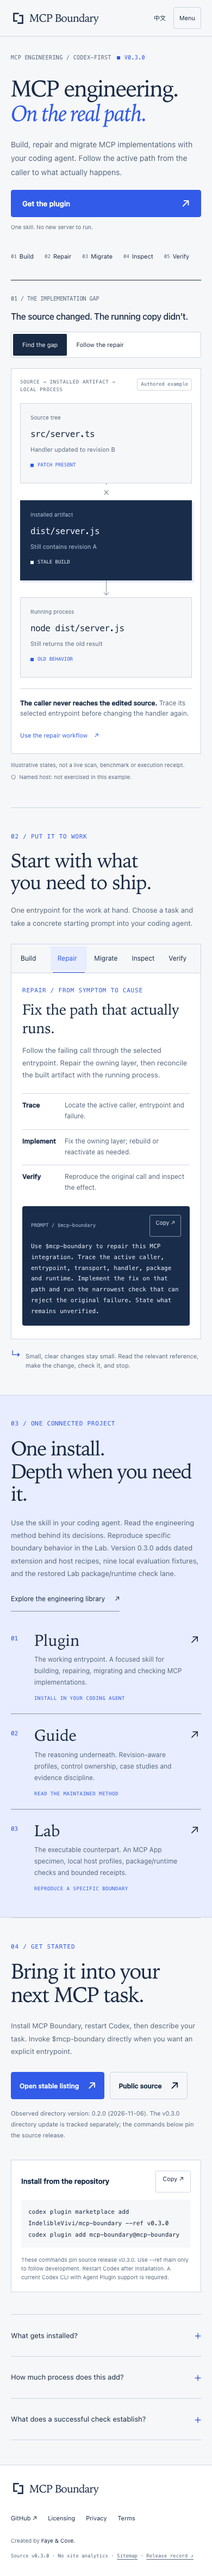
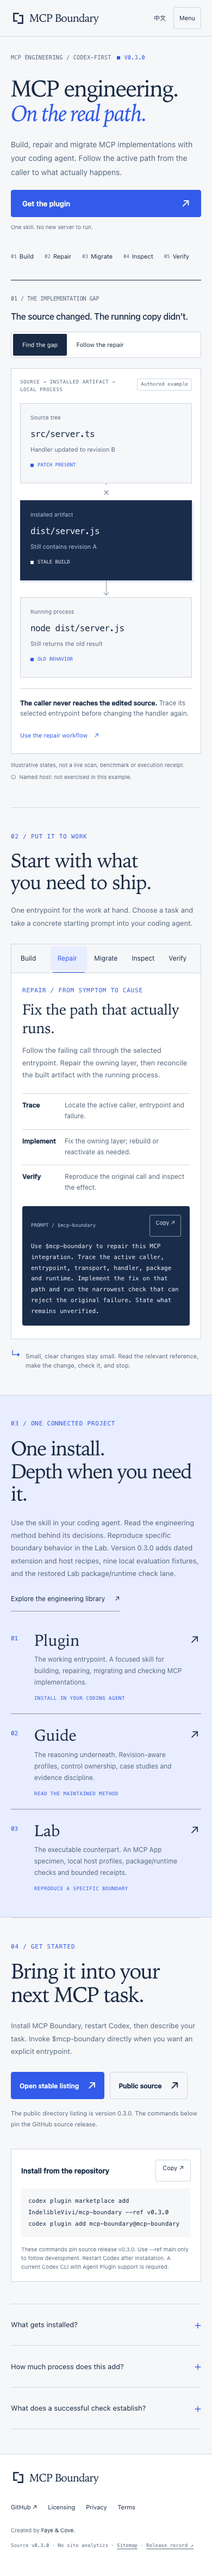
record published 0.3.0 directory release

diff --git a/mcp-boundary-demo.html b/mcp-boundary-demo.html
@@ -56,7 +56,7 @@ html:not(.js) .menu-button{display:none}html:not(.js) .nav{display:flex}html:not
  <div class="kicker blue">VERIFY / ASK AT THE RIGHT BOUNDARY</div><h3>Test the claim where it can be observed.</h3><p>Use the exact artifact and observer needed for the claim. A local rendering test has value; a different host still needs its own observation.</p><div class="workflow-steps"><div><strong>Define</strong><span>Define the claim, exact artifact and qualifying observer.</span></div><div><strong>Exercise</strong><span>Prepare only the authorized check that can reject it.</span></div><div><strong>Record</strong><span>Record the outcome and its remaining limits.</span></div></div>
  <div class="prompt"><div class="prompt-top"><span class="mono">PROMPT / $mcp-boundary</span><button class="js-only" data-copy="prompt-verify" aria-label="Copy prompt">Copy ↗</button></div><pre id="prompt-verify">Use $mcp-boundary to verify this MCP behavior. Define the claim, exact artifact, active runtime and qualifying observer. Run authorized checks at the relevant boundary, distinguishing source, process, artifact and named-host observations. Do not promote an unobserved host result into success or failure.</pre></div></section></div></div><p class="workflow-note"><span class="symbol" aria-hidden="true">↳</span>Small, clear changes stay small. Read the relevant reference, make the change, check it, and stop.</p></section>
  <section class="ecosystem" id="project" aria-labelledby="eco-heading"><div class="wrap eco-grid"><div class="eco-intro"><div class="kicker blue">03 / ONE CONNECTED PROJECT</div><h2 id="eco-heading">One install.<br>Depth when you need it.</h2><p>Use the skill in your coding agent. Read the engineering method behind its decisions. Reproduce specific boundary behavior in the Lab. Version 0.3.0 adds dated extension and host recipes, nine local evaluation fixtures, and the restored Lab package/runtime check lane.</p><a class="text-link" href="https://indeliblevivi.github.io/mcp-boundary/library.html">Explore the engineering library <span aria-hidden="true">↗</span></a></div><div><a class="surface" href="#install"><span class="surface-index">01</span><div><h3>Plugin</h3><p>The working entrypoint. A focused skill for building, repairing, migrating and checking MCP implementations.</p><div class="surface-meta">INSTALL IN YOUR CODING AGENT</div></div><span class="surface-arrow" aria-hidden="true">↗</span></a><a class="surface" href="https://indeliblevivi.github.io/mcp-boundary/library.html#guide"><span class="surface-index">02</span><div><h3>Guide</h3><p>The reasoning underneath. Revision-aware profiles, control ownership, case studies and evidence discipline.</p><div class="surface-meta">READ THE MAINTAINED METHOD</div></div><span class="surface-arrow" aria-hidden="true">↗</span></a><a class="surface" href="https://indeliblevivi.github.io/mcp-boundary/library.html#lab"><span class="surface-index">03</span><div><h3>Lab</h3><p>The executable counterpart. An MCP App specimen, local host profiles, package/runtime checks and bounded receipts.</p><div class="surface-meta">REPRODUCE A SPECIFIC BOUNDARY</div></div><span class="surface-arrow" aria-hidden="true">↗</span></a></div></div></section>
- <section class="section wrap" id="install" aria-labelledby="install-heading"><div class="install-grid"><div class="install-copy"><div class="kicker blue">04 / GET STARTED</div><h2 id="install-heading">Bring it into your<br>next MCP task.</h2><p>Install MCP Boundary, restart Codex, then describe your task. Invoke $mcp-boundary directly when you want an explicit entrypoint.</p><div class="install-actions"><a class="cta" href="https://chatgpt.com/plugins/plugins_6aa72e81844081918770991deb1dbfc8">Open stable listing <span class="arr" aria-hidden="true">↗</span></a><a class="cta secondary" href="https://github.com/IndelibleVivi/mcp-boundary">Public source <span class="arr" aria-hidden="true">↗</span></a></div><p class="install-meta">Observed directory version: 0.2.0 (2026-11-06). The v0.3.0 directory update is tracked separately; the commands below pin the source release.</p></div>
+ <section class="section wrap" id="install" aria-labelledby="install-heading"><div class="install-grid"><div class="install-copy"><div class="kicker blue">04 / GET STARTED</div><h2 id="install-heading">Bring it into your<br>next MCP task.</h2><p>Install MCP Boundary, restart Codex, then describe your task. Invoke $mcp-boundary directly when you want an explicit entrypoint.</p><div class="install-actions"><a class="cta" href="https://chatgpt.com/plugins/plugins_6aa72e81844081918770991deb1dbfc8">Open stable listing <span class="arr" aria-hidden="true">↗</span></a><a class="cta secondary" href="https://github.com/IndelibleVivi/mcp-boundary">Public source <span class="arr" aria-hidden="true">↗</span></a></div><p class="install-meta">The public directory listing is version 0.3.0. The commands below pin the GitHub source release.</p></div>
  <div class="source-install"><div class="source-install-header"><h3>Install from the repository</h3><button class="copy-small js-only" data-copy="install-command">Copy ↗</button></div><pre id="install-command">codex plugin marketplace add IndelibleVivi/mcp-boundary --ref v0.3.0
 codex plugin add mcp-boundary@mcp-boundary</pre><p>These commands pin source release v0.3.0. Use --ref main only to follow development. Restart Codex after installation. A current Codex CLI with Agent Plugin support is required.</p></div></div><div class="details-list"><details><summary>What gets installed?</summary><p>One pure skill with its bundled references and assets. It starts no server, adds no app connector or authentication flow, and sends no analytics or telemetry. The Guide and executable Lab remain repository resources.</p></details><details><summary>How much process does this add?</summary><p>Only the depth the task needs. A small wording change or local helper does not need an elaborate audit. The skill has an explicit stop rule for small, clear MCP tasks.</p></details><details><summary>What does a successful check establish?</summary><p>The behavior observed at that boundary. Source, local process, artifact, activated runtime and named-host observations remain distinct. The public library links to the method and runnable checks; this website does not execute them.</p></details></div></section></main><script type="application/json" id="study-data">{"before": {"files": ["src/server.ts", "dist/server.js", "node dist/server.js"], "details": ["Handler updated to revision B", "Still contains revision A", "Still returns the old result"], "states": ["PATCH PRESENT", "STALE BUILD", "OLD BEHAVIOR"], "summary": "\u003cstrong>The caller never reaches the edited source.\u003c/strong> Trace its selected entrypoint before changing the handler again."}, "after": {"files": ["src/server.ts", "dist/server.js", "node dist/server.js"], "details": ["Handler updated to revision B", "Rebuilt and checked as B", "Restarted; revision B read back"], "states": ["PATCH PRESENT", "ARTIFACT ALIGNED", "LOCAL RESULT OBSERVED"], "summary": "\u003cstrong>Rebuild, select, restart, then exercise the effect.\u003c/strong> In this example, the local process now runs the intended artifact and returns the new result."}}</script><footer><div class="wrap"><div class="foot-top"><a class="brand" href="./mcp-boundary-demo.html"><svg viewBox="0 0 64 64" data-mark aria-hidden="true"><path d="M35 11H13V44H28" fill="none" stroke="currentColor" stroke-width="6"/><path d="M29 53H51V20H36" fill="none" stroke="#315BE8" stroke-width="6"/></svg><span>MCP Boundary</span></a><nav class="foot-links" aria-label="Footer"><a href="https://github.com/IndelibleVivi/mcp-boundary">GitHub ↗</a><a href="https://github.com/IndelibleVivi/mcp-boundary/blob/main/LICENSING.md">Licensing</a><a href="https://github.com/IndelibleVivi/mcp-boundary/blob/main/PRIVACY.md">Privacy</a><a href="https://github.com/IndelibleVivi/mcp-boundary/blob/main/TERMS.md">Terms</a></nav></div><div class="foot-bottom"><p class="foot-credit">Created by <span>Faye &amp; Cove.</span></p><p class="foot-state">Source v0.3.0 · No site analytics · <a href="https://github.com/IndelibleVivi/mcp-boundary/blob/main/docs/current-state.md">Release record ↗</a></p></div></div></footer>
  <dialog id="copy-dialog" aria-labelledby="copy-title"><div class="dialog-head"><h2 id="copy-title">Copy the text</h2><button id="close-dialog" aria-label="Close">×</button></div><p>Clipboard access is unavailable here. Select the text and use your usual copy command.</p><textarea id="copy-fallback" readonly aria-label="Text to copy"></textarea></dialog><div class="toast" id="toast" role="status" aria-live="polite"></div><noscript><p class="notice">All documents and installation instructions are available without JavaScript. Interactive examples and copy helpers require JavaScript.</p></noscript>

diff --git a/site/zh/index.html b/site/zh/index.html
@@ -26,7 +26,7 @@
  <div class="kicker blue">验证 / 到能观察它的地方去</div><h3>在对应的边界，验证具体结论。</h3><p>选择与结论对应的产物和观察者。本地渲染测试有它的价值，另一个宿主仍需要独立的实际观察。</p><div class="workflow-steps"><div><strong>定义</strong><span>写清待验证结论、具体产物与观察者。</span></div><div><strong>执行</strong><span>准备有授权、且能够否定该结论的检查。</span></div><div><strong>记录</strong><span>记录结果，同时保留它的适用范围。</span></div></div>
  <div class="prompt"><div class="prompt-top"><span class="mono">起始提示词 / $mcp-boundary</span><button class="js-only" data-copy="prompt-verify" aria-label="复制提示词">复制 ↗</button></div><pre id="prompt-verify">使用 $mcp-boundary 验证这个 MCP 行为。明确待验证结论、具体产物、实际运行进程与合格观察者，在对应边界运行获授权的检查，区分源码、进程、产物和具体宿主上的观察。没有观察到的宿主结果，不能判为成功或失败。</pre></div></section></div></div><p class="workflow-note"><span class="symbol" aria-hidden="true">↳</span>小而明确的改动就保持小：读相关参考、完成修改、运行检查，到此为止。</p></section>
  <section class="ecosystem" id="project" aria-labelledby="eco-heading"><div class="wrap eco-grid"><div class="eco-intro"><div class="kicker blue">03 / 同一个项目</div><h2 id="eco-heading">安装一个技能。<br>需要时，继续深入。</h2><p>在编码智能体里使用技能，读懂决策背后的工程方法，再去 Lab 复现具体边界上的行为。 v0.3.0 增加按日期标注的扩展与宿主 recipes、九个本地评估 fixture，并恢复 Lab 的打包与运行验证路线。</p><a class="text-link" href="./library.html">进入工程资料库 <span aria-hidden="true">↗</span></a></div><div><a class="surface" href="#install"><span class="surface-index">01</span><div><h3>Plugin</h3><p>实际工作的入口。一个专注于 MCP 构建、修复、迁移与检查的技能。</p><div class="surface-meta">安装到编码智能体</div></div><span class="surface-arrow" aria-hidden="true">↗</span></a><a class="surface" href="./library.html#guide"><span class="surface-index">02</span><div><h3>Guide</h3><p>决策背后的方法。按版本组织的协议参考、控制归属、案例与证据规则。</p><div class="surface-meta">阅读维护中的工程方法</div></div><span class="surface-arrow" aria-hidden="true">↗</span></a><a class="surface" href="./library.html#lab"><span class="surface-index">03</span><div><h3>Lab</h3><p>可运行的对应物。MCP App 标本、本地宿主配置、产物与进程检查，以及限定结论范围的回执。</p><div class="surface-meta">复现具体边界上的行为</div></div><span class="surface-arrow" aria-hidden="true">↗</span></a></div></div></section>
- <section class="section wrap" id="install" aria-labelledby="install-heading"><div class="install-grid"><div class="install-copy"><div class="kicker blue">04 / 开始使用</div><h2 id="install-heading">把它带进你的<br>下一次 MCP 工作。</h2><p>安装 MCP Boundary，重启 Codex，再描述这次要做的事。需要明确调用时，直接写上 $mcp-boundary。</p><div class="install-actions"><a class="cta" href="https://chatgpt.com/plugins/plugins_6aa72e81844081918770991deb1dbfc8">打开稳定版目录页面 <span class="arr" aria-hidden="true">↗</span></a><a class="cta secondary" href="https://github.com/IndelibleVivi/mcp-boundary">查看公开源码 <span class="arr" aria-hidden="true">↗</span></a></div><p class="install-meta">目录最近观察到的版本为 0.2.0（2026-11-06）。v0.3.0 的目录更新单独记录；下方命令固定安装源码发布版。</p></div>
+ <section class="section wrap" id="install" aria-labelledby="install-heading"><div class="install-grid"><div class="install-copy"><div class="kicker blue">04 / 开始使用</div><h2 id="install-heading">把它带进你的<br>下一次 MCP 工作。</h2><p>安装 MCP Boundary，重启 Codex，再描述这次要做的事。需要明确调用时，直接写上 $mcp-boundary。</p><div class="install-actions"><a class="cta" href="https://chatgpt.com/plugins/plugins_6aa72e81844081918770991deb1dbfc8">打开稳定版目录页面 <span class="arr" aria-hidden="true">↗</span></a><a class="cta secondary" href="https://github.com/IndelibleVivi/mcp-boundary">查看公开源码 <span class="arr" aria-hidden="true">↗</span></a></div><p class="install-meta">公开插件目录的 0.3.0 已上线。下方命令固定安装 GitHub 源码发布版。</p></div>
  <div class="source-install"><div class="source-install-header"><h3>从仓库安装</h3><button class="copy-small js-only" data-copy="install-command">复制 ↗</button></div><pre id="install-command">codex plugin marketplace add IndelibleVivi/mcp-boundary --ref v0.3.0
 codex plugin add mcp-boundary@mcp-boundary</pre><p>这些命令固定安装源码发布版 v0.3.0。只有需要跟随开发时才使用 --ref main。安装后重启 Codex；需要支持 Agent Plugin 的当前 Codex CLI。</p></div></div><div class="details-list"><details><summary>到底会安装什么？</summary><p>一个纯技能包，包含所需参考与资源。不启动服务器，不新增 App connector 或认证流程，也不发送分析数据或遥测。Guide 与可执行 Lab 留在仓库里，不随插件运行。</p></details><details><summary>会不会把小改动变成大审计？</summary><p>工作深度应当匹配任务。小的措辞修改或本地辅助能力不需要一整套复杂审计；技能明确要求在小而清楚的 MCP 任务上及时停止。</p></details><details><summary>一项检查通过，意味着什么？</summary><p>意味着在那次检查对应的边界上观察到了预期行为。源码、本地进程、构建产物、激活后的运行时和具体宿主上的观察仍各自成立。资料库提供方法与可运行检查的入口，这个官网本身不执行它们。</p></details></div></section></main><script type="application/json" id="study-data">{"before": {"files": ["src/server.ts", "dist/server.js", "node dist/server.js"], "details": ["处理逻辑已更新为版本 B", "仍然包含版本 A", "仍然返回修改前的结果"], "states": ["修改已存在", "产物未更新", "旧行为仍在"], "summary": "\u003cstrong>调用方根本没有进入改过的源码。\u003c/strong> 先追踪它实际选择的入口，再决定是否继续修改处理逻辑。"}, "after": {"files": ["src/server.ts", "dist/server.js", "node dist/server.js"], "details": ["处理逻辑已更新为版本 B", "重新构建并确认是版本 B", "重启后回读到版本 B"], "states": ["修改已存在", "产物已对齐", "观察到本地新结果"], "summary": "\u003cstrong>重新构建、选择产物、重启，再实际调用。\u003c/strong> 在这个示例里，本地进程已运行预期的那一份，并返回新的结果。"}}</script><footer><div class="wrap"><div class="foot-top"><a class="brand" href="./"><svg viewBox="0 0 64 64" data-mark aria-hidden="true"><path d="M35 11H13V44H28" fill="none" stroke="currentColor" stroke-width="6"/><path d="M29 53H51V20H36" fill="none" stroke="#315BE8" stroke-width="6"/></svg><span>MCP Boundary</span></a><nav class="foot-links" aria-label="Footer"><a href="https://github.com/IndelibleVivi/mcp-boundary">GitHub ↗</a><a href="https://github.com/IndelibleVivi/mcp-boundary/blob/main/LICENSING.md">许可</a><a href="https://github.com/IndelibleVivi/mcp-boundary/blob/main/PRIVACY.md">隐私</a><a href="https://github.com/IndelibleVivi/mcp-boundary/blob/main/TERMS.md">使用条款</a></nav></div><div class="foot-bottom"><p class="foot-credit">由 <span>Faye &amp; Cove</span> 共同创作。</p><p class="foot-state">源码 v0.3.0 · 无站点分析追踪 · <a href="../sitemap.xml">站点地图</a> · <a href="https://github.com/IndelibleVivi/mcp-boundary/blob/main/docs/current-state.md">版本记录 ↗</a></p></div></div></footer>
  <dialog id="copy-dialog" aria-labelledby="copy-title"><div class="dialog-head"><h2 id="copy-title">手动复制</h2><button id="close-dialog" aria-label="关闭">×</button></div><p>当前环境无法访问剪贴板。选中下方文字，再使用通常的复制操作。</p><textarea id="copy-fallback" readonly aria-label="要复制的文字"></textarea></dialog><div class="toast" id="toast" role="status" aria-live="polite"></div><noscript><p class="notice">无需 JavaScript 即可阅读内容、查看文档与安装说明。交互示例和复制辅助需要 JavaScript。</p></noscript>

diff --git a/site/index.html b/site/index.html
@@ -27,7 +27,7 @@
  <div class="kicker blue">VERIFY / ASK AT THE RIGHT BOUNDARY</div><h3>Test the claim where it can be observed.</h3><p>Use the exact artifact and observer needed for the claim. A local rendering test has value; a different host still needs its own observation.</p><div class="workflow-steps"><div><strong>Define</strong><span>Define the claim, exact artifact and qualifying observer.</span></div><div><strong>Exercise</strong><span>Prepare only the authorized check that can reject it.</span></div><div><strong>Record</strong><span>Record the outcome and its remaining limits.</span></div></div>
  <div class="prompt"><div class="prompt-top"><span class="mono">PROMPT / $mcp-boundary</span><button class="js-only" data-copy="prompt-verify" aria-label="Copy prompt">Copy ↗</button></div><pre id="prompt-verify">Use $mcp-boundary to verify this MCP behavior. Define the claim, exact artifact, active runtime and qualifying observer. Run authorized checks at the relevant boundary, distinguishing source, process, artifact and named-host observations. Do not promote an unobserved host result into success or failure.</pre></div></section></div></div><p class="workflow-note"><span class="symbol" aria-hidden="true">↳</span>Small, clear changes stay small. Read the relevant reference, make the change, check it, and stop.</p></section>
  <section class="ecosystem" id="project" aria-labelledby="eco-heading"><div class="wrap eco-grid"><div class="eco-intro"><div class="kicker blue">03 / ONE CONNECTED PROJECT</div><h2 id="eco-heading">One install.<br>Depth when you need it.</h2><p>Use the skill in your coding agent. Read the engineering method behind its decisions. Reproduce specific boundary behavior in the Lab. Version 0.3.0 adds dated extension and host recipes, nine local evaluation fixtures, and the restored Lab package/runtime check lane.</p><a class="text-link" href="./library.html">Explore the engineering library <span aria-hidden="true">↗</span></a></div><div><a class="surface" href="#install"><span class="surface-index">01</span><div><h3>Plugin</h3><p>The working entrypoint. A focused skill for building, repairing, migrating and checking MCP implementations.</p><div class="surface-meta">INSTALL IN YOUR CODING AGENT</div></div><span class="surface-arrow" aria-hidden="true">↗</span></a><a class="surface" href="./library.html#guide"><span class="surface-index">02</span><div><h3>Guide</h3><p>The reasoning underneath. Revision-aware profiles, control ownership, case studies and evidence discipline.</p><div class="surface-meta">READ THE MAINTAINED METHOD</div></div><span class="surface-arrow" aria-hidden="true">↗</span></a><a class="surface" href="./library.html#lab"><span class="surface-index">03</span><div><h3>Lab</h3><p>The executable counterpart. An MCP App specimen, local host profiles, package/runtime checks and bounded receipts.</p><div class="surface-meta">REPRODUCE A SPECIFIC BOUNDARY</div></div><span class="surface-arrow" aria-hidden="true">↗</span></a></div></div></section>
- <section class="section wrap" id="install" aria-labelledby="install-heading"><div class="install-grid"><div class="install-copy"><div class="kicker blue">04 / GET STARTED</div><h2 id="install-heading">Bring it into your<br>next MCP task.</h2><p>Install MCP Boundary, restart Codex, then describe your task. Invoke $mcp-boundary directly when you want an explicit entrypoint.</p><div class="install-actions"><a class="cta" href="https://chatgpt.com/plugins/plugins_6aa72e81844081918770991deb1dbfc8">Open stable listing <span class="arr" aria-hidden="true">↗</span></a><a class="cta secondary" href="https://github.com/IndelibleVivi/mcp-boundary">Public source <span class="arr" aria-hidden="true">↗</span></a></div><p class="install-meta">Observed directory version: 0.2.0 (2026-11-06). The v0.3.0 directory update is tracked separately; the commands below pin the source release.</p></div>
+ <section class="section wrap" id="install" aria-labelledby="install-heading"><div class="install-grid"><div class="install-copy"><div class="kicker blue">04 / GET STARTED</div><h2 id="install-heading">Bring it into your<br>next MCP task.</h2><p>Install MCP Boundary, restart Codex, then describe your task. Invoke $mcp-boundary directly when you want an explicit entrypoint.</p><div class="install-actions"><a class="cta" href="https://chatgpt.com/plugins/plugins_6aa72e81844081918770991deb1dbfc8">Open stable listing <span class="arr" aria-hidden="true">↗</span></a><a class="cta secondary" href="https://github.com/IndelibleVivi/mcp-boundary">Public source <span class="arr" aria-hidden="true">↗</span></a></div><p class="install-meta">The public directory listing is version 0.3.0. The commands below pin the GitHub source release.</p></div>
  <div class="source-install"><div class="source-install-header"><h3>Install from the repository</h3><button class="copy-small js-only" data-copy="install-command">Copy ↗</button></div><pre id="install-command">codex plugin marketplace add IndelibleVivi/mcp-boundary --ref v0.3.0
 codex plugin add mcp-boundary@mcp-boundary</pre><p>These commands pin source release v0.3.0. Use --ref main only to follow development. Restart Codex after installation. A current Codex CLI with Agent Plugin support is required.</p></div></div><div class="details-list"><details><summary>What gets installed?</summary><p>One pure skill with its bundled references and assets. It starts no server, adds no app connector or authentication flow, and sends no analytics or telemetry. The Guide and executable Lab remain repository resources.</p></details><details><summary>How much process does this add?</summary><p>Only the depth the task needs. A small wording change or local helper does not need an elaborate audit. The skill has an explicit stop rule for small, clear MCP tasks.</p></details><details><summary>What does a successful check establish?</summary><p>The behavior observed at that boundary. Source, local process, artifact, activated runtime and named-host observations remain distinct. The public library links to the method and runnable checks; this website does not execute them.</p></details></div></section></main><script type="application/json" id="study-data">{"before": {"files": ["src/server.ts", "dist/server.js", "node dist/server.js"], "details": ["Handler updated to revision B", "Still contains revision A", "Still returns the old result"], "states": ["PATCH PRESENT", "STALE BUILD", "OLD BEHAVIOR"], "summary": "\u003cstrong>The caller never reaches the edited source.\u003c/strong> Trace its selected entrypoint before changing the handler again."}, "after": {"files": ["src/server.ts", "dist/server.js", "node dist/server.js"], "details": ["Handler updated to revision B", "Rebuilt and checked as B", "Restarted; revision B read back"], "states": ["PATCH PRESENT", "ARTIFACT ALIGNED", "LOCAL RESULT OBSERVED"], "summary": "\u003cstrong>Rebuild, select, restart, then exercise the effect.\u003c/strong> In this example, the local process now runs the intended artifact and returns the new result."}}</script><footer><div class="wrap"><div class="foot-top"><a class="brand" href="./"><svg viewBox="0 0 64 64" data-mark aria-hidden="true"><path d="M35 11H13V44H28" fill="none" stroke="currentColor" stroke-width="6"/><path d="M29 53H51V20H36" fill="none" stroke="#315BE8" stroke-width="6"/></svg><span>MCP Boundary</span></a><nav class="foot-links" aria-label="Footer"><a href="https://github.com/IndelibleVivi/mcp-boundary">GitHub ↗</a><a href="https://github.com/IndelibleVivi/mcp-boundary/blob/main/LICENSING.md">Licensing</a><a href="https://github.com/IndelibleVivi/mcp-boundary/blob/main/PRIVACY.md">Privacy</a><a href="https://github.com/IndelibleVivi/mcp-boundary/blob/main/TERMS.md">Terms</a></nav></div><div class="foot-bottom"><p class="foot-credit">Created by <span>Faye &amp; Cove.</span></p><p class="foot-state">Source v0.3.0 · No site analytics · <a href="./sitemap.xml">Sitemap</a> · <a href="https://github.com/IndelibleVivi/mcp-boundary/blob/main/docs/current-state.md">Release record ↗</a></p></div></div></footer>
  <dialog id="copy-dialog" aria-labelledby="copy-title"><div class="dialog-head"><h2 id="copy-title">Copy the text</h2><button id="close-dialog" aria-label="Close">×</button></div><p>Clipboard access is unavailable here. Select the text and use your usual copy command.</p><textarea id="copy-fallback" readonly aria-label="Text to copy"></textarea></dialog><div class="toast" id="toast" role="status" aria-live="polite"></div><noscript><p class="notice">All documents and installation instructions are available without JavaScript. Interactive examples and copy helpers require JavaScript.</p></noscript>

diff --git a/tests/test_release_submission.py b/tests/test_release_submission.py
@@ -70,6 +70,8 @@ class ReleaseSubmissionTests(unittest.TestCase):
         self.assertIn("current `/plugins/build/mcp-server`", text)
         self.assertIn("2026-10-15", text)
         self.assertIn("historical observation", text)
+        self.assertIn("**Published**", text)
+        self.assertIn("not byte identity with a local package", text)
         self.assertIn("local surrogate", text)
 
     def test_release_notes_preserve_evaluation_boundaries(self) -> None:
@@ -90,7 +92,7 @@ class ReleaseSubmissionTests(unittest.TestCase):
         text = SITE.read_text(encoding="utf-8")
         library = LIBRARY.read_text(encoding="utf-8")
         self.assertIn(">v0.3.0</a>", text)
-        self.assertIn("Observed directory version: 0.2.0 (2026-11-06)", text)
+        self.assertIn("The public directory listing is version 0.3.0", text)
         self.assertIn("--ref v0.3.0", text)
         self.assertIn("releases/tag/v0.3.0", text)
         self.assertIn("./library.html#guide", text)

diff --git a/docs/current-state.md b/docs/current-state.md
@@ -6,7 +6,7 @@ Last reviewed: 2026-11-06
 | --- | --- | --- |
 | Unified repository | `0.3.0` released | [Release notes](releases/0.3.0.md) describe the dated recipes, complete fixture set, Lab validation repair and corrected evidence wording. Source release and directory publication remain separate below |
[1 lines of base64/hex data omitted]
-| External plugin directory | `0.2.0` published; `0.3.0` in review | On 2026-11-06 the existing listing `plugins_6aa72e81844081918770991deb1dbfc8` accepted the final ZIP, completed metadata/skill checks and recorded `0.3.0` as In review. The portal estimates review completion on 2026-11-06; this is not approval or a guaranteed publication date. `0.2.0` remains the published version |
+| External plugin directory | `0.3.0` live | On 2026-11-06 the publisher portal showed `0.3.0 · Published`, public directory display enabled, and no metadata or skill findings. The [public listing](https://chatgpt.com/plugins/plugins_6aa72e81844081918770991deb1dbfc8) independently showed version `0.3.0`, one skill, Faye & Cove and Developer Tools. The public page does not expose the uploaded ZIP digest |
 | Lab evidence | Complete CI runner lane verified on 2026-11-06 | Run 42099039334 observed 95 tests, five Chromium host tests, SDK/fixture roundtrips, one initial plus one context UI call, a 43-file clean package and isolated runtime. Source `a8a4dabe3266c6b18fb1db4d8ee51e0fe8dbb827`; local full loopback/browser remained blocked by worker IPC/listen permissions. This proves that exact CI candidate, not operator production or a named host |
 | Release package | `0.3.0`, 34 files | ZIP/archive readback and remote release download verified on 2026-11-06. Portable manifest and legacy projection are source-generated. A fresh empty-home install using remote `--ref v0.3.0` succeeded with cache bytes matching the final package |
 | Release CI | `verified` for exact release commit `bded3d5` | [Validation run 42125507602](https://github.com/IndelibleVivi/mcp-boundary/actions/runs/42125507602) passed all seven jobs: both plugin/workspace Python versions, both Guide versions, skill schema, submission bundle and complete Lab runtime lane |
@@ -21,8 +21,8 @@ Last reviewed: 2026-11-06
 | Website | `0.3.0` live on GitHub Pages | [Deployment 42127367156](https://github.com/IndelibleVivi/mcp-boundary/actions/runs/42127367156) succeeded for `21e5eb1`; [validation 42127367170](https://github.com/IndelibleVivi/mcp-boundary/actions/runs/42127367170) passed all seven jobs. All four deployed HTML routes returned `200` and matched source bytes on 2026-11-06; the live browser confirmed version and pinned install. All 12 local browser checks passed, with desktop/mobile screenshots refreshed |
 | Site discoverability | Four canonical URLs in `site/sitemap.xml`, unique titles/descriptions, reciprocal `hreflang`, and directory homepage links | Deployed with unique titles/descriptions and reciprocal language alternates. Google Search Console ownership was verified and sitemap submission accepted on 2026-09-21; the live URL Inspection test reported crawl allowed and fetch successful, but the sitemap report still showed `Couldn't fetch` after one resubmission. Successful ingestion remains pending; a later URL Inspection check on 2026-09-21 confirmed that the homepage and Library are indexed. This does not establish ranking |
 | Related projects | English and Chinese README and Library entries link to Servotab and Worker Routing | Published static links sit outside the ten-document Guide/Lab filter; desktop/mobile layouts, no-JavaScript links, and empty-result filtering were checked before deployment |
-| Submission materials | `0.3.0` ZIP uploaded to the existing listing | [Current packet](submission/0.3.0.md) records final ZIP, listing copy and the submitted review state. The [0.2.0 record](submission/0.2.0.md) preserves published history |
+| Submission materials | `0.3.0` published on the existing listing | [Current packet](submission/0.3.0.md) records final ZIP, listing copy and the observed publication state. The [0.2.0 record](submission/0.2.0.md) preserves published history |
 | Behavior comparison | Nine initial runs + three candidate follow-ups executed | No skill `2/3`; released `0.2.0`, initial candidate and final candidate `3/3` each. Final candidate did not repeat an earlier extra scope question; incremental completion gain over `0.2.0` is not established. [Report](../evaluations/october-2026-report.md). The six core cases now have local fixtures/checkers and red/green/partial-repair tests; model runs for those six remain unexecuted |
 | Former repositories | Archived read-only on GitHub on 2026-09-25 | Final `main` heads remained Guide [`c913c16`](https://github.com/IndelibleVivi/mcp-server-engineering-field-guide/commit/c913c16) and Lab [`315eac0`](https://github.com/IndelibleVivi/mcp-app-production-fieldlab/commit/315eac0) after archival. Their migration front doors, About descriptions, and homepage links route continued development to MCP Boundary while preserving the standalone histories |
 
-Release validation run `35059026233` completed successfully for `98afefd`, including plugin/workspace tests on Python 3.11 and 3.12, schema validation, Guide checks on Python 3.11 and 3.13, Lab checks, deterministic bundle verification, and artifact upload.
+Historical `v0.2.0` validation run `35059026233` completed successfully for `98afefd`, including plugin/workspace tests on Python 3.11 and 3.12, schema validation, Guide checks on Python 3.11 and 3.13, Lab checks, deterministic bundle verification, and artifact upload.

diff --git a/README.md b/README.md
@@ -14,9 +14,9 @@ The repository is intentionally a monorepo. A user installs one plugin. A mainta
 
 The plugin stays small. It starts no server, registers no app connector, requests no authentication, sends no analytics or telemetry, and adds no runtime dependency. The Guide and the Lab are repository source: the executable Lab specimen is engineering evidence, not distributed plugin runtime.
 
-> [`v0.3.0` is released on GitHub](https://github.com/IndelibleVivi/mcp-boundary/releases/tag/v0.3.0). The observed public directory version remains `0.2.0` until a later listing update is reviewed and published; repository source and the directory artifact remain separate release surfaces.
+> [`v0.3.0` is released on GitHub](https://github.com/IndelibleVivi/mcp-boundary/releases/tag/v0.3.0). Version `0.3.0` is also live in the [public plugin directory](https://chatgpt.com/plugins/plugins_6aa72e81844081918770991deb1dbfc8). The repository tag and directory listing remain separate release surfaces.
 
-[Website](https://indeliblevivi.github.io/mcp-boundary/) · [中文说明](README.zh-CN.md) · [Workspace design](docs/UNIFIED-WORKSPACE.md) · [Current state](docs/current-state.md) · [0.3.0 release notes](docs/releases/0.3.0.md) · [0.2.0 publication record](docs/submission/0.2.0.md) · [Licensing](LICENSING.md)
+[Website](https://indeliblevivi.github.io/mcp-boundary/) · [中文说明](README.zh-CN.md) · [Workspace design](docs/UNIFIED-WORKSPACE.md) · [Current state](docs/current-state.md) · [0.3.0 release notes](docs/releases/0.3.0.md) · [0.3.0 directory record](docs/submission/0.3.0.md) · [Licensing](LICENSING.md)
 
 ## Use the plugin
 
@@ -83,7 +83,7 @@ It also has a stop rule: small, clear MCP changes should remain small.
 
 `0.3.0` adds [Skills distribution](guide/profiles/skills-distribution-2026-10-15.md), [Cloudflare authorization/proxy paths](guide/profiles/cloudflare-deployment-2026-10-15.md), [OpenAI native entrypoints](guide/profiles/openai-entrypoints-2026-10-15.md), and [Tasks/Events selection](guide/profiles/async-selection-2026-10-15.md). The active skill bundles self-contained recipes. The existing July core profiles remain the protocol baseline; these additions address extension and host behavior.
 
-Packaging uses root portable `plugin.json` with inline OpenAI presentation, plus a generated Codex compatibility manifest. Both come from `src/plugin/plugin.json`. Archive/loader-contract checks are separate from actual host installation and directory publication. The observed public listing remains `0.2.0`.
+Packaging uses root portable `plugin.json` with inline OpenAI presentation, plus a generated Codex compatibility manifest. Both come from `src/plugin/plugin.json`. Archive/loader-contract checks are separate from actual host installation and directory publication. The public listing shows `0.3.0`; its displayed version and metadata do not expose the uploaded ZIP digest.
 
 The November refresh separates extension maturity from SEP status: Skills and Tasks are Beta, while Events remains Experimental. Skills references use the current Beta specification; the OpenAI recipe follows the October 21 host guidance. See [Lab testing](lab/docs/TESTING.en.md) for the consolidated package path and root CI.
 

diff --git a/README.zh-CN.md b/README.zh-CN.md
@@ -14,9 +14,9 @@ MCP Boundary 是一项由三个相连表面组成的 MCP 工程项目：
 
 插件本身保持轻量：它不启动 server、不注册 app connector、不要求认证、不发送 analytics 或 telemetry，也不引入 runtime dependency。Guide 与 Lab 都是仓库源码：可执行的 Lab 标本是工程证据，不是分发的插件运行时。
 
-> [`v0.3.0` 已在 GitHub 正式发布](https://github.com/IndelibleVivi/mcp-boundary/releases/tag/v0.3.0)。公开插件目录中实际观察到的版本仍是 `0.2.0`，直到后续 listing 更新通过审阅并发布；仓库源码与目录产物仍是两个独立的 release surface。
+> [`v0.3.0` 已在 GitHub 正式发布](https://github.com/IndelibleVivi/mcp-boundary/releases/tag/v0.3.0)。[公开插件目录](https://chatgpt.com/plugins/plugins_6aa72e81844081918770991deb1dbfc8)的 `0.3.0` 也已上线。仓库 tag 与目录 listing 仍是两个独立的 release surface。
 
-[官网](https://indeliblevivi.github.io/mcp-boundary/) · [English](README.md) · [统一工作区设计](docs/UNIFIED-WORKSPACE.md) · [当前状态](docs/current-state.md) · [0.3.0 发布说明](docs/releases/0.3.0.md) · [0.2.0 发布记录](docs/submission/0.2.0.md) · [许可](LICENSING.md)
+[官网](https://indeliblevivi.github.io/mcp-boundary/) · [English](README.md) · [统一工作区设计](docs/UNIFIED-WORKSPACE.md) · [当前状态](docs/current-state.md) · [0.3.0 发布说明](docs/releases/0.3.0.md) · [0.3.0 目录发布记录](docs/submission/0.3.0.md) · [许可](LICENSING.md)
 
 ## 使用插件
 
@@ -83,7 +83,7 @@ MCP Boundary 会要求 agent：
 
 `0.3.0` 新增 [Skills 分发](guide/profiles/skills-distribution-2026-10-15.zh-CN.md)、[Cloudflare 授权／代理](guide/profiles/cloudflare-deployment-2026-10-15.zh-CN.md)、[OpenAI 原生入口](guide/profiles/openai-entrypoints-2026-10-15.zh-CN.md)和 [Tasks/Events 选型](guide/profiles/async-selection-2026-10-15.zh-CN.md)。active skill 自带可独立使用的 recipes。现有七月核心 profile 保留；本轮补扩展与宿主行为。
 
-插件包采用根目录 portable `plugin.json`，内含 OpenAI 展示信息，同时生成 Codex 兼容清单；两者只维护 `src/plugin/plugin.json` 这一份作者源。拆包及 loader-contract 检查与真实安装、目录发布分别记录。公开目录中观察到的版本仍为 `0.2.0`。
+插件包采用根目录 portable `plugin.json`，内含 OpenAI 展示信息，同时生成 Codex 兼容清单；两者只维护 `src/plugin/plugin.json` 这一份作者源。拆包及 loader-contract 检查与真实安装、目录发布分别记录。公开目录显示 `0.3.0`；页面上的版本与 metadata 不会暴露上传 ZIP 的 digest。
 
 十一月更新区分 extension 成熟度与 SEP 状态：Skills 和 Tasks 为 Beta，Events 为 Experimental；Skills 规范使用当前 Beta 入口，OpenAI recipe 同步 10 月 21 日的 host guidance。Lab 的合仓打包路径与根 CI 见 [Lab 测试说明](lab/docs/TESTING.md)。
 

diff --git a/docs/submission/0.3.0.md b/docs/submission/0.3.0.md
@@ -1,11 +1,14 @@
 # MCP Boundary 0.3.0 plugin submission packet
 
-This packet records the submitted `0.3.0` update to the existing MCP Boundary listing. Submission and review readiness are not an approval; this is not a new listing application.
+This packet records the published `0.3.0` update to the existing MCP Boundary listing. Submission and review readiness are not an approval; this is not a new listing application.
 
 ## State and target
 
 - **Target state:** update the existing listing `plugins_6aa72e81844081918770991deb1dbfc8` for a `0.3.0` skills-only package upload and review.
-- **Actual state:** the final ZIP was uploaded on 2026-11-06, metadata and skill checks completed, and `0.3.0` was submitted on the existing listing. The portal shows **In review**, with estimated completion on 2026-11-06. The observed public directory version remains `0.2.0`; review readiness is not an approval, and no new publication is claimed.
+- **Actual state:** **Published**. On 2026-11-06 the publisher portal showed `0.3.0 · Published`, public directory display enabled and no metadata or skill findings. The observed public directory version is `0.3.0`, with one skill, Faye & Cove as developer, Developer Tools category and public website/policy links.
+
+The public page does not expose the uploaded ZIP digest. These observations confirm publication and displayed metadata, not byte identity with a local package.
+
 - **Website:** a separate publication surface; see [current state](../current-state.md) for its deployed version.
 - **Submission type:** **Skills only**
 - **Version:** `0.3.0`
@@ -97,7 +100,7 @@ Changes since `0.2.0`:
 - keeps source, package, runtime, named-host, review, and publication states distinct;
 - adds the support URL and keeps the OpenAI short description within the current 30-character limit.
 
-Comparative improvement, directory approval, and named-host behavior are not claimed.
+Comparative improvement and named-host behavior are not claimed.
 
 ## Verification record
 
@@ -108,4 +111,5 @@ Comparative improvement, directory approval, and named-host behavior are not cla
 - Release commit and publication history: tracked in [current state](../current-state.md).
 - A separate [installed-content smoke](../../evaluations/november-2026-installed-smoke.md) passed one explicit repair and one non-MCP request; it does not establish directory or desktop activation.
 - Directory ingestion and automated metadata/skill checks: completed for the uploaded `0.3.0` version. Review submission was accepted.
-- Not verified here: reviewer approval, `0.3.0` directory publication, desktop composer rendering, and named-host effects.
+- Directory publication: confirmed by both the publisher portal and the public `0.3.0` listing on 2026-11-06.
+- Not verified here: directory ZIP byte identity, desktop composer rendering, and named-host effects.

diff --git a/docs/releases/0.3.0.md b/docs/releases/0.3.0.md
@@ -9,7 +9,7 @@ MCP Boundary `0.3.0` packages the expanded MCP engineering skill and its self-co
 - Add local fixtures and independent checks for all six original core evaluation cases.
 - Restore Lab source, packaging, browser, clean-package, and isolated-runtime checks as repository evidence; none of that runtime is distributed in the plugin.
 - Move OpenAI presentation into the portable root manifest's inline extension and generate the legacy Codex compatibility manifest from the same source.
-- Reduce the short listing description to `MCP work on the live path`, add the public support URL, and prepare a new complete skills-only ZIP for the existing listing.
+- Reduce the short listing description to `MCP work on the live path`, add the public support URL, and publish the updated skills-only version on the existing listing.
 
 The plugin remains one pure skill. It adds no MCP server, app connector, hook, authentication flow, telemetry, hosted service, or runtime dependency.
 
@@ -34,6 +34,6 @@ The October treatment was explicit source-file loading through its `SKILL.md`, n
 
[1 lines of base64/hex data omitted]
 
-The existing public listing is `plugins_6aa72e81844081918770991deb1dbfc8`. Its last observed public version is `0.2.0`; the `0.3.0` packet records release readiness, not a directory update. Approval and publication require their own account actions and observations.
+The existing [public listing](https://chatgpt.com/plugins/plugins_6aa72e81844081918770991deb1dbfc8) was observed at `0.3.0` on 2026-11-06, alongside the publisher portal’s Published state. This confirms directory publication and displayed metadata; the public page does not expose a ZIP digest or establish package-byte identity.
 
 See the [submission packet](../submission/0.3.0.md) and [October behavior report](../../evaluations/october-2026-report.md).

diff --git a/CHANGELOG.md b/CHANGELOG.md
@@ -8,7 +8,7 @@
 - Preserve the October comparison as a dated three-case observation: no skill `2/3`, released `0.2.0` `3/3`, and the initial and final candidate `3/3`, without claiming incremental advantage.
 - Restore the Lab source, package, browser, clean-package, and isolated-runtime validation lane as repository evidence without adding Lab runtime to the plugin.
 - Adopt the portable root manifest with inline OpenAI presentation and a generated legacy compatibility projection from one author source.
-- Update the OpenAI listing description to the 30-character limit, add the public support URL, and prepare the existing listing's `0.3.0` ZIP for metadata and package review.
+- Publish `0.3.0` on the existing public plugin listing, with the OpenAI short description within 30 characters and the public support URL included.
 - Preserve the plugin boundary: no MCP server, app connector, authentication flow, analytics, telemetry, or distributed runtime dependency.
 
 ## 0.2.0
